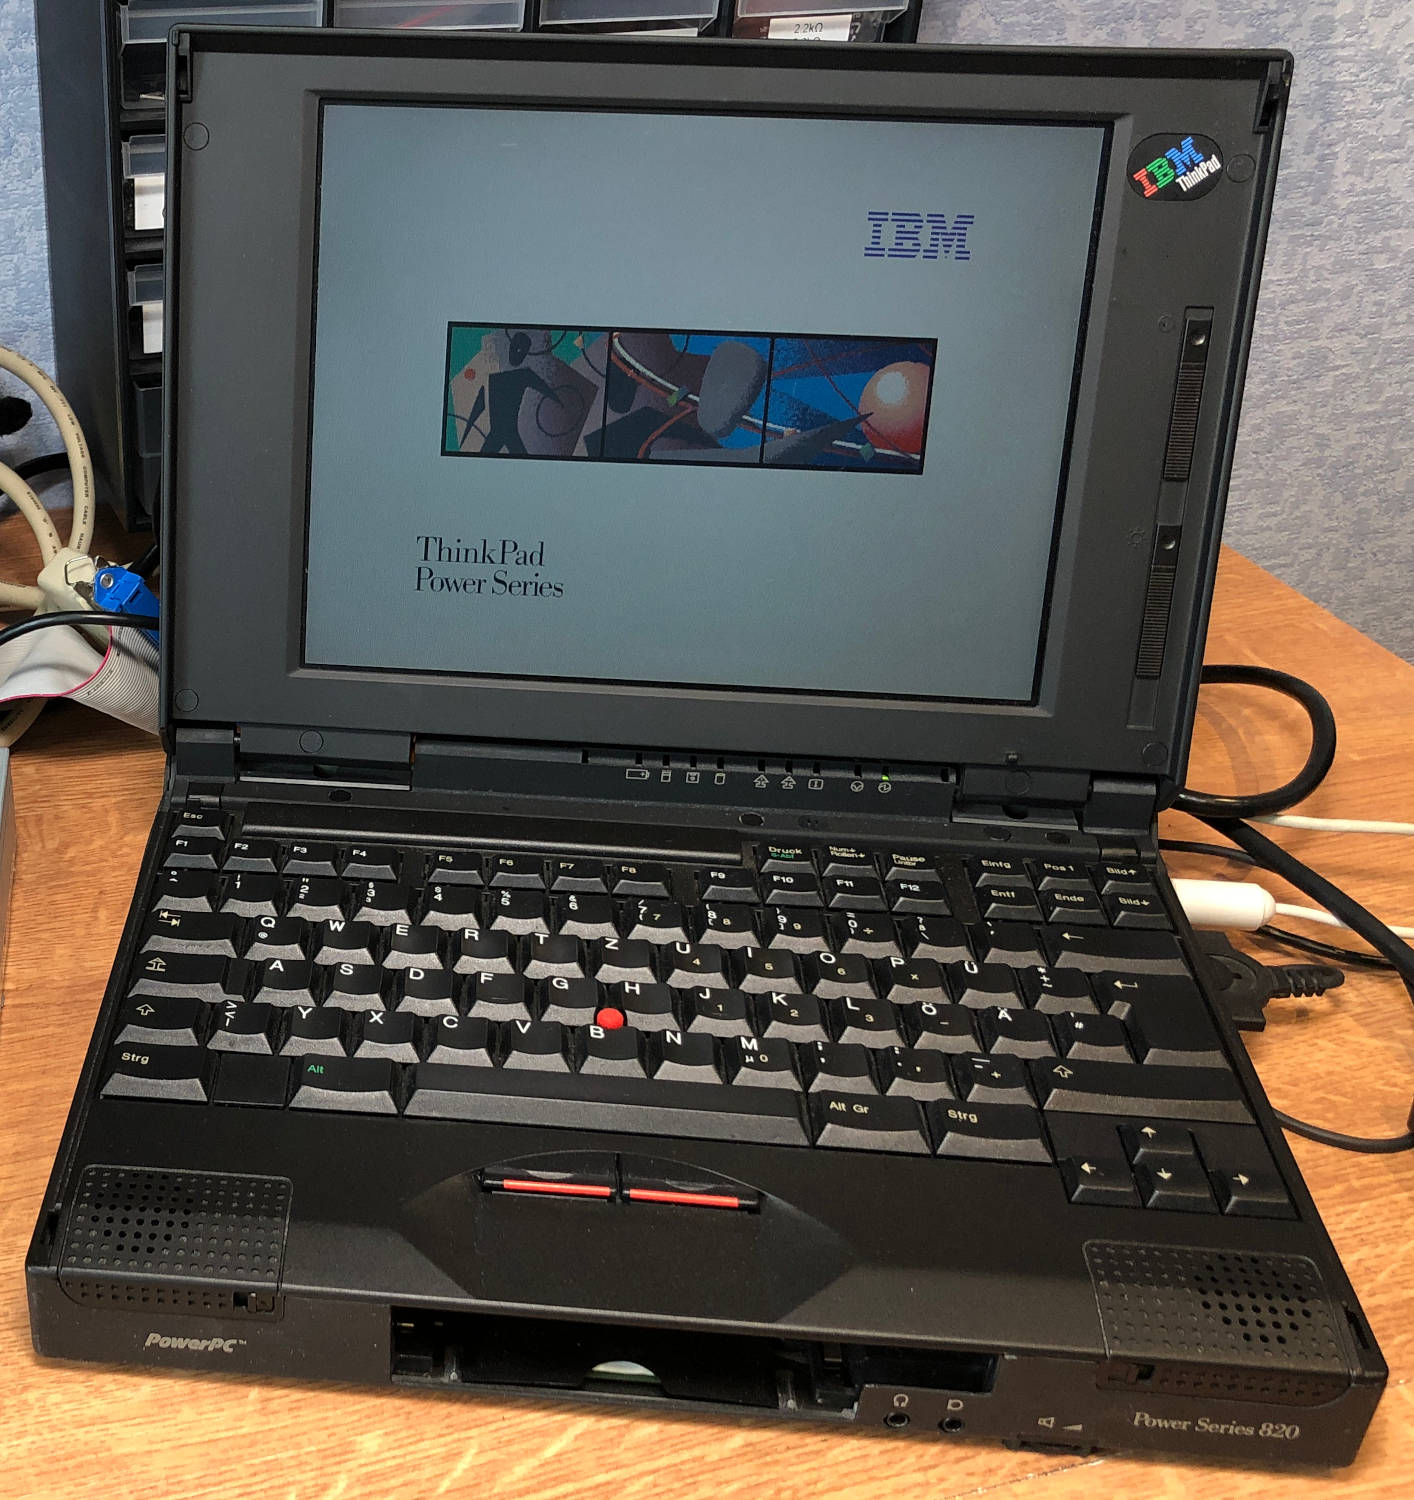
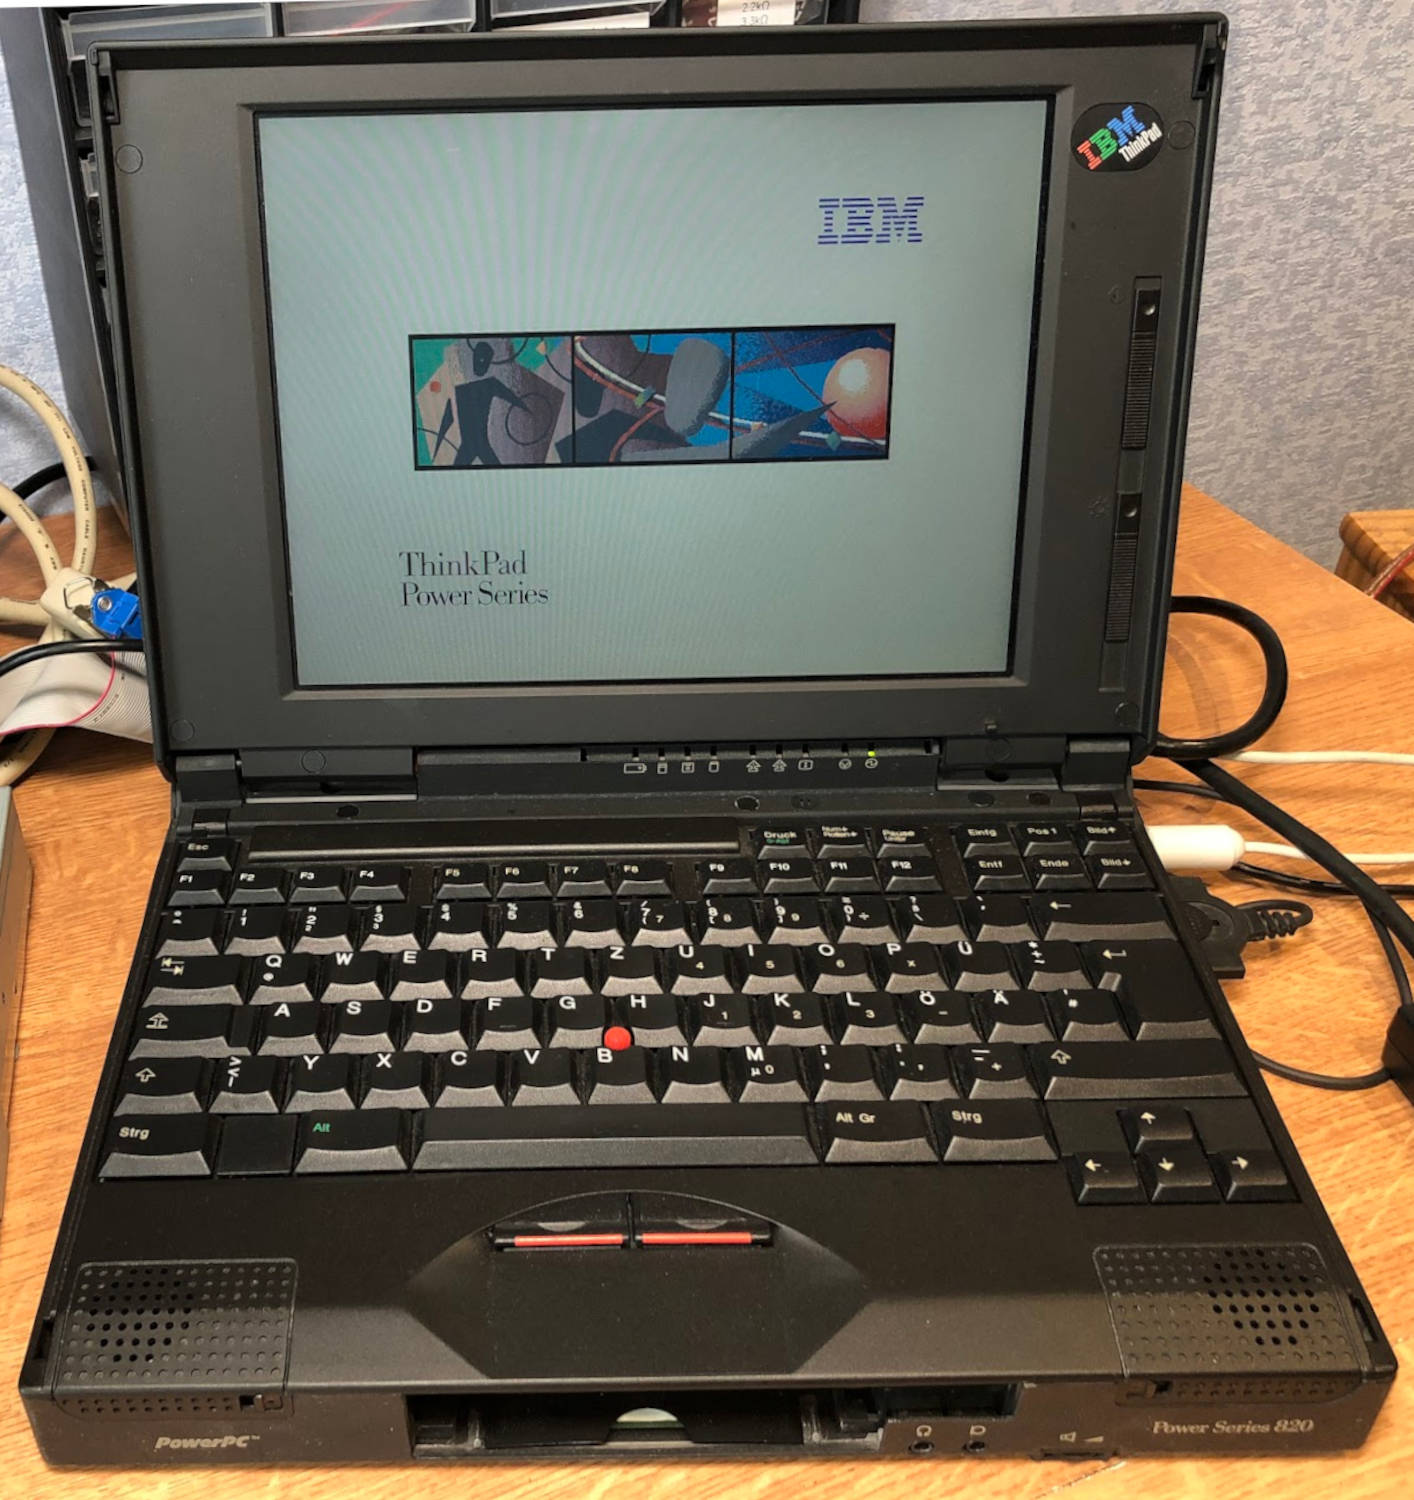
replace 820 picture, fix sources

diff --git a/slides/de.md b/slides/de.md
@@ -21,6 +21,9 @@ theme: think
     .col40{
         width: 40%;
     }
+    .smol{
+      font-size: 60%
+    }
 </style>
 
 <!-- _class: lead -->
@@ -1436,10 +1439,36 @@ X1C G10 30th (2022)
 
 ---
 
-<!-- _header: ThinkPads in Filmen und Serien -->
+<!-- _header: ThinkPad-Mods aus der Maker-Szene -->
 <!-- footer: '' -->
 
-- Beispiele aus Filmen und Serien
+Es gibt zahlreiche Community-Mods, die die Geräte erweitern:
+
+- USB-C PD-Mods, z.B. [für T41/T43](https://kittenlabs.de/projects/usb-c-mods/t41-usb-c/)
+- [BIOS-Mods](https://www.thinkwiki.org/wiki/Custom_BIOS)
+  - z.B. um Limitierungen zu entfernen
+  - [Libreboot](https://libreboot.org) und [Coreboot](https://www.coreboot.org/)
+- [NVMe BIOS Boot Option](https://kittenlabs.de/nvmeboot/)
+
+<div style="display:contents;" data-marpit-fragment>
+
+- [Frankenpads](https://thinkwiki.de/Frankenpad)
+  - stark angepasste ThinkPads, mit neueren Komponenten, etc.
+- 51nb-Mods mit komplett überarbeiteten Mainboards
+  - [X62 (X61)](https://www.notebookcheck.com/Test-Lenovo-IBM-Thinkpad-51nb-X62-Custom-Laptop.212686.0.html), [X210 (X200/201)](http://www.cnmod.cn/x210/), [X330 (X230)](https://www.xyte.ch/mods/x230/), [T700 (T60/61)](https://www.xyte.ch/t700-crowdfunding/)
+
+</div>
+
+<!--
+
+- 51nb-Mods sind super interessant, aber recht teuer (da Kleinstauflage)
+
+-->
+
+---
+
+<!-- _header: ThinkPads in Filmen und Serien -->
+
 - TODO
 
 ---
@@ -1507,6 +1536,8 @@ Zu diesen Themen gibt es passende **Bücher**:
 
 <!-- _header: Bilderquellen -->
 
+<div class="smol">
+
 <div class="container">
 
 <div class="col">
@@ -1520,25 +1551,26 @@ Zu diesen Themen gibt es passende **Bücher**:
 - [ThinkPad 700](https://richardsapperdesign.com/products/thinkpad-700c/)
 - [Richard Sapper](https://en.wikipedia.org/wiki/Richard_Sapper)
 - [Artemide Tizio](https://commons.wikimedia.org/wiki/File:Lampe_Tizio_von_Richard_Sapper.jpg)
-- [ThinkPad + Tizio](https://www.reddit.com/r/thinkpad/comments/h16v1f/tizio_and_thinkpad_the_perfect_classical/)
-
-</div>
-
-<div class="col">
-
 - [IBM Model 5140](https://richardsapperdesign.com/products/mod-5140/)
-- [ThinkPad 820](https://kittenlabs.de/blog/2019/04/23/thinkpad-powerseries-820/)
+- [ThinkPad 820 (Sarah Mädel / manawyrm)](https://photos.google.com/share/AF1QipO52rP1VsA7X3W-jMP5pSI6szBKNUtcz8vKa7rpMi-lc8GhH_qakCFNGeEkBe6Ydw?key=M3RCcGM3X1JBN3o3cDNlLXNtcUJUaTF5SW9xbkZn)
 - [ThinkPad 850](https://en.wikipedia.org/wiki/IBM_ThinkPad_Power_Series)
 - [UltraBay](https://thinkwiki.de/UltraBay)
 - [UltraBay Serial/Parallel](http://www.ymmfa.com/read-gktid-27003.html)
 - [UltraBay WorkPad Cradle](https://www.thinkwiki.org/wiki/Ultrabay_Plus_WorkPad_c500_Cradle)
 - [UltraPort](https://www.lenovoblog.cz/2019/02/ibm-thinkpad-ultraport-milenialni-konektor-pro-pripojeni-ruznorodeho-prislusenstvi.html)
+
+</div>
+
+<div class="col">
+
 - [ThinkPad HMC](https://www.reddit.com/r/thinkpad/comments/19d7nhd/classic_thinkpads_were_installed_in_ibm_mainframes/)
 - [W701ds](https://thinkwiki.de/W701)
 - [X1 Nano](https://www.notebookcheck.com/Lenovo-ThinkPad-X1-Nano-Laptop-im-Test-Business-Subnotebook-mit-LTE-wiegt-noch-nicht-einmal-1-kg.517236.0.html)
 - [Z13 G2](https://www.notebookcheck.com/ThinkPad-Z13-Gen-2-Laptop-im-Test-Lenovos-Antwort-auf-das-Dell-XPS-13.795442.0.html)
 - [Reserve Edition](https://thinkwiki.de/X61)
 - [X1 Carbon G10 30th](https://www.notebookcheck.com/Test-Lenovo-ThinkPad-X1-Carbon-G10-30th-Anniversary-Laptop-OLED-Edition-mit-Ausdauer-Problem.673951.0.html)
+
+</div>
 
 </div>
 
